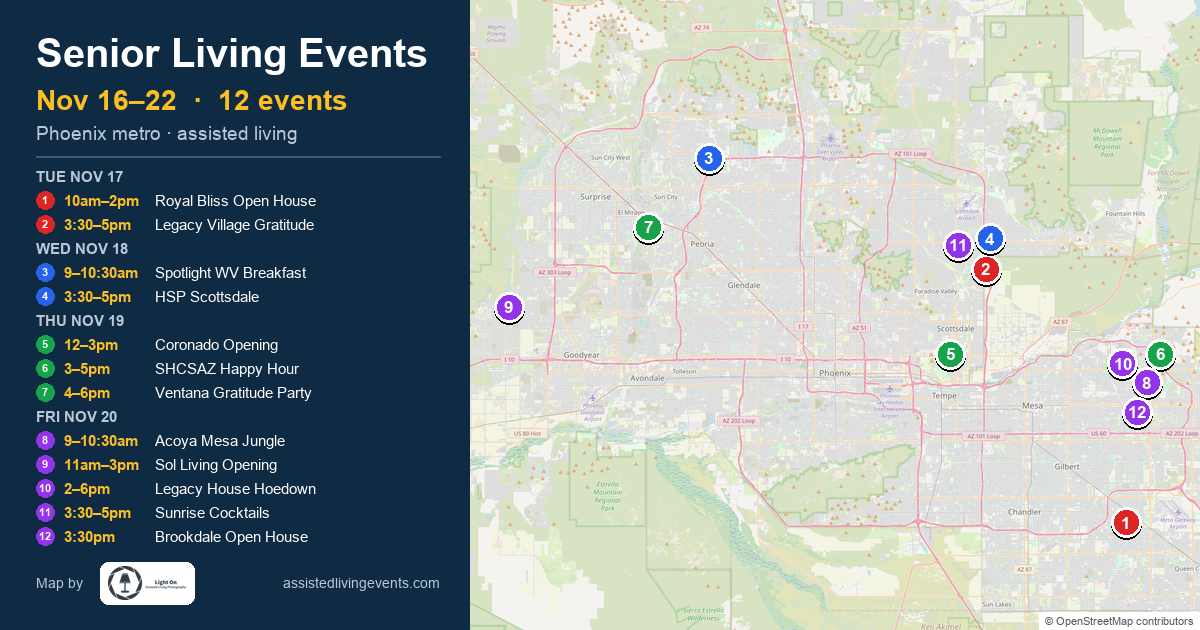
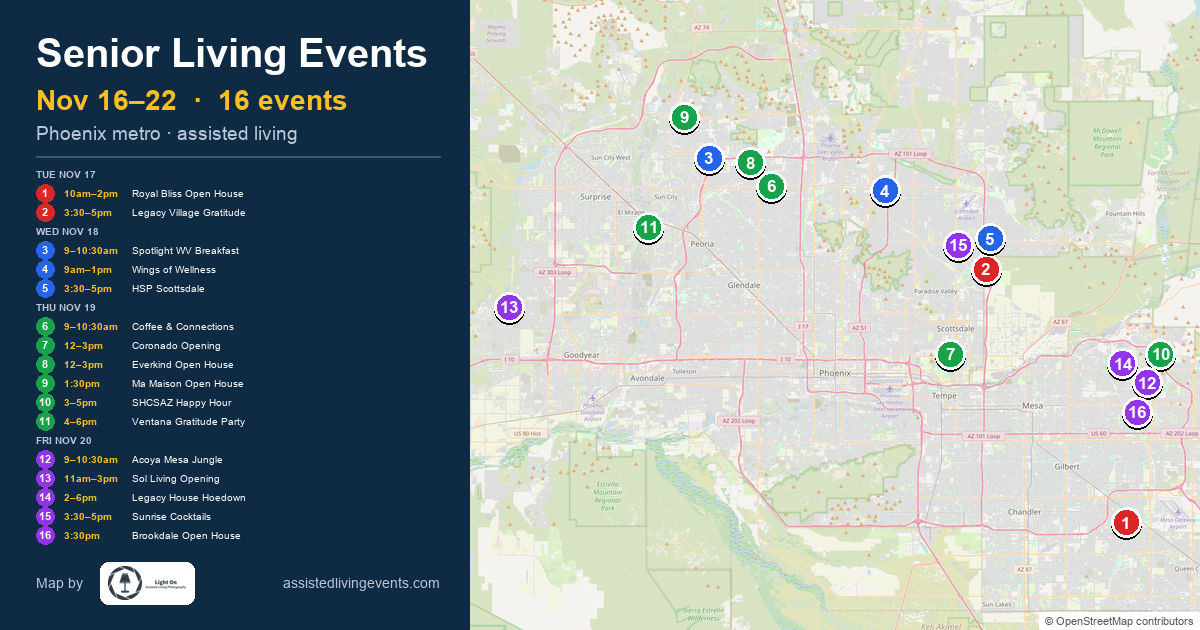
Week of Nov 16, 2026-11-15-2

diff --git a/index.html b/index.html
@@ -4,23 +4,23 @@
   <meta charset="UTF-8" />
   <title>Phoenix Metro Weekly Assisted Living Events</title>
   <!-- og:start (generated by scripts/build_preview.py) -->
-  <meta name="description" content="Nov 16–22 · 12 assisted living events across the Valley" />
+  <meta name="description" content="Nov 16–22 · 16 assisted living events across the Valley" />
   <meta property="og:type" content="website" />
   <meta property="og:title" content="Senior Living Events · Nov 16–22" />
-  <meta property="og:description" content="Nov 16–22 · 12 assisted living events across the Valley" />
+  <meta property="og:description" content="Nov 16–22 · 16 assisted living events across the Valley" />
   <meta property="og:url" content="https://assistedlivingevents.com/" />
-  <meta property="og:image" content="https://assistedlivingevents.com/images/preview.png?v=2026-11-15-1" />
+  <meta property="og:image" content="https://assistedlivingevents.com/images/preview.png?v=2026-11-15-2" />
   <meta property="og:image:width" content="1200" />
   <meta property="og:image:height" content="630" />
   <meta name="twitter:card" content="summary_large_image" />
   <meta name="twitter:title" content="Senior Living Events · Nov 16–22" />
-  <meta name="twitter:description" content="Nov 16–22 · 12 assisted living events across the Valley" />
-  <meta name="twitter:image" content="https://assistedlivingevents.com/images/preview.png?v=2026-11-15-1" />
+  <meta name="twitter:description" content="Nov 16–22 · 16 assisted living events across the Valley" />
+  <meta name="twitter:image" content="https://assistedlivingevents.com/images/preview.png?v=2026-11-15-2" />
   <!-- og:end -->
   <meta name="viewport" content="width=device-width, initial-scale=1" />
   <link href="https://api.mapbox.com/mapbox-gl-js/v3.6.0/mapbox-gl.css" rel="stylesheet" />
   <link href="vendor/leaflet/leaflet.css" rel="stylesheet" />
-  <link href="css/styles.css?v=2026-11-15-1" rel="stylesheet" />
+  <link href="css/styles.css?v=2026-11-15-2" rel="stylesheet" />
 </head>
 <body>
   <header>
@@ -89,8 +89,8 @@
     })();
   </script>
   <script src="https://api.mapbox.com/mapbox-gl-js/v3.6.0/mapbox-gl.js"></script>
-  <script src="js/config.js?v=2026-11-15-1"></script>
-  <script src="js/map.js?v=2026-11-15-1"></script>
+  <script src="js/config.js?v=2026-11-15-2"></script>
+  <script src="js/map.js?v=2026-11-15-2"></script>
   <script data-goatcounter="https://assistedlivingevents.goatcounter.com/count"
           async src="//gc.zgo.at/count.js"></script>
 </body>

diff --git a/js/config.js b/js/config.js
@@ -1,2 +1,2 @@
 const MAPBOX_TOKEN = "pk.eyJ1IjoiY2dydWl0YSIsImEiOiJjbXRhanNoYzkwMGRrMndvYnQ5OWFvcHZoIn0.IXzPp--fY9nrZjRw5MfD2A";
-const MAP_VERSION = "2026-11-15-1";
+const MAP_VERSION = "2026-11-15-2";

diff --git a/data/weeks/next-week.md b/data/weeks/next-week.md
@@ -1,15 +1,19 @@
 # Next week AL events
 
 Week of Mon Nov 16 – Sun Nov 22, 2026.
-Source: Nancy Winters weekly email ("Welcome to Week 3 of November Connecting and Growing your Business! Let's Go!", Nov 14; forwarded to Gmail Nov 16) + attached flyers. Flyers win over text. Facebook Events tab is being checked separately and may add more later. Map names: Royal Bliss Open House, Legacy Village Gratitude, Spotlight WV Breakfast, HSP Scottsdale, Coronado Opening, SHCSAZ Happy Hour, Ventana Gratitude Party, Acoya Mesa Jungle, Sol Living Opening, Legacy House Hoedown, Sunrise Cocktails, Brookdale Open House. Map: data/weeks/2026-11-16.csv (build loads the CSV named by the week's Monday), version 2026-11-15-1 (committed on the Mini, not pushed). 12 events on map. Previews: 11.16.2026/preview-2026-11-15(.png|@2x.png).
+Source: Nancy Winters weekly email ("Welcome to Week 3 of November Connecting and Growing your Business! Let's Go!", Nov 14; forwarded to Gmail Nov 16) + attached flyers + SHCSAZ Facebook Events tab. Flyers win over text. Map names: Royal Bliss Open House, Legacy Village Gratitude, Spotlight WV Breakfast, Wings of Wellness, HSP Scottsdale, Coffee & Connections, Coronado Opening, Everkind Open House, Ma Maison Open House, SHCSAZ Happy Hour, Ventana Gratitude Party, Acoya Mesa Jungle, Sol Living Opening, Legacy House Hoedown, Sunrise Cocktails, Brookdale Open House. Map: data/weeks/2026-11-16.csv (build loads the CSV named by the week's Monday), version 2026-11-15-2 (committed on the Mini, not pushed). 16 events on map. Previews: 11.16.2026/preview-2026-11-15(.png|@2x.png).
 
 | id | Date | Time | Event | Host | Address | Care | Source | include |
 |---|---|---|---|---|---|---|---|---|
 | e001 | Tue Nov 17 | 10am–2pm | Royal Bliss Open House | Royal Bliss Care Homes | 3064 S Martingale Rd, Gilbert 85295 | AL home | flyer image003; RSVP 480-439-8768 | yes |
 | e002 | Tue Nov 17 | 3:30–5pm | Fall into Gratitude | Legacy Village of Salt River | 8170 N 90th St, Scottsdale 85258 | AL/IL/MC | flyer image004; RSVP 480-527-2002 | yes |
 | e003 | Wed Nov 18 | 9–10:30am | West Valley Spotlight Breakfast | Inspira Arrowhead | 20240 N 78th Ave, Glendale 85308 | AL/IL/MC | flyer image022 (text said "luncheon"); RSVP 623-235-6400 | yes |
+| e013 | Wed Nov 18 | 9am–1pm | Wings of Wellness Senior Expo | Hummingbird ALH at Palm Lakes Village | 16415 N 33rd Way, Phoenix 85032 | ALH host at 55+ MH community | flyer image007 + SHCSAZ FB https://www.facebook.com/events/3029002757444962/ (same event as Clive Russell's Wings of Wellness Recharge); one-off exception Cristian approved | yes |
 | e004 | Wed Nov 18 | 3:30–5pm | HSP Phoenix Scottsdale Social | Gardens Care Scottsdale | 9185 E Desert Cove Ave, Scottsdale 85260 | IL/AL/MC | flyer image008; https://www.facebook.com/share/g/1HtoZpEkvy | yes |
+| e014 | Thu Nov 19 | 9–10:30am | Coffee & Connections | Gentle Hearts Living Solutions at Qamaria Yemeni Coffee Co. | 4251 W Bell Rd, Phoenix 85053 | coffee venue (exception) | flyer image002 (Nancy text said Wed; flyer is Thu) + SHCSAZ FB https://www.facebook.com/events/1744995633237676/; Cristian asked to include | yes |
 | e005 | Thu Nov 19 | 12–3pm | Coronado AL Grand Opening | Coronado Assisted Living Home | 6909 E Coronado Rd, Scottsdale 85257 | AL home | flyer image011 (newly remodeled open house); RSVP 319-330-4680 | yes |
+| e015 | Thu Nov 19 | 12–3pm | Everkind Open House | Everkind Care Homes | 19535 N 55th Dr, Glendale 85308 | AL home | SHCSAZ FB https://www.facebook.com/events/1090747057298270 | yes |
+| e016 | Thu Nov 19 | 1:30–3:30pm | Ma Maison Sunset View Open House | Ma Maison Sunset View Assisted Living | 24885 N 93rd Ave, Peoria 85383 | AL | SHCSAZ FB https://www.facebook.com/events/4651640108398962 (Afternoon Recharge & Open House) | yes |
 | e006 | Thu Nov 19 | 3–5pm | SHCSAZ Thanksgiving Happy Hour | Canyon Winds Assisted Living | 7311 E Oasis St, Mesa 85207 | AL (campus IL at 2851 N Boulder Canyon) | flyer image013; https://www.facebook.com/share/1DwwF1B2dg/ | yes |
 | e007 | Thu Nov 19 | 4–6pm | Ventana Winds Gratitude Party | Ventana Winds | 12322 N 113th Ave, Youngtown 85363 | AL/MC | flyer image034; RSVP 623-583-2460 by Nov 16 | yes |
 | e008 | Fri Nov 20 | 9–10:30am | 3rd Friday Welcome to the Jungle | Acoya Mesa | 6502 E Brown Rd, Mesa 85205 | AL | text + FB https://www.facebook.com/share/1DqzvnhEYk | yes |
@@ -20,12 +24,10 @@ Source: Nancy Winters weekly email ("Welcome to Week 3 of November Connecting an
 
 ## Dropped / skip (this window)
 - Tue Nov 17 — ProREAL Networking (Nouvelle Lighting); Marcie's Marketing Brew coffee (6134 E Main St, Mesa); BidBox Auctions Mesa Chamber ribbon cutting; 101 Referral lunch at The Park at Copper Creek, Chandler (901 S 94th St); Rockin Rob karaoke at Arizona Golf Resort; Epic West Valley Chamber at City of Hope; 101 Referral Zoom; Forward Loans homebuyer webinar — SKIP
-- Wed Nov 18 — LegalShield / Empower coffee mixer at Rudy's BBQ; PASRS monthly education at Cogir of Morrison Ranch (funeral-industry speaker); Gentle Hearts Coffee & Connections at Qamaria Yemeni Coffee (flyer dated Thu Nov 19, still a coffee mixer); Tempe 101 Referral at Times Media Group; Go Local Arizona at Haymaker Thunderbird, Peoria; Wicked Awesome Happy Hour at Cider Corps — SKIP
-- Wed Nov 18, 9am–1pm — Wings of Wellness Expo, Palm Lakes Village, 16415 N 33rd Way, Phoenix — SKIP (vendor expo / clinic elements at a 55+ mobile-home community, not AL; Hummingbird ALH is on the flyer; borderline)
+- Wed Nov 18 — LegalShield / Empower coffee mixer at Rudy's BBQ; PASRS monthly education at Cogir of Morrison Ranch (funeral-industry speaker); Tempe 101 Referral at Times Media Group; Go Local Arizona at Haymaker Thunderbird, Peoria; Wicked Awesome Happy Hour at Cider Corps — SKIP
 - Thu Nov 19 — Chandler Business Alliance at American Legion; 101 Referral at Mimi's Café Desert Ridge; Everything East Mesa lunch at The Hub; Apache Junction Chamber mixer; Rockin Rob karaoke at Pacino's — SKIP
-- Thu Nov 19 — Everkind open house (logged ahead last week, 12–3pm at 19535 N 55th Dr, Glendale) — not in Nancy's email or flyers this week, so left off pending confirmation
 - Fri Nov 20 — Sandbox Networking at Sunflower Cremation; Industrial Shoeworks Mesa Chamber ribbon cutting; Aviation Fascination at Heliponents, 4930 E Falcon Dr, Mesa (chamber aviation event) — SKIP
 - Attachment image018 — Mesa Monthly Mixer hosted by The Villages at Red Mountain, 8035 E Brown Rd, Mesa — no date on the flyer and not in Nancy's text, so left off
 
-## Later weeks
-- None logged ahead from this email.
+## Later weeks / coming up
+- Tue Nov 24, 10am — Senior Connect On The Go Roundtable, The Park at Surprise, 14630 W Parkwood Dr
